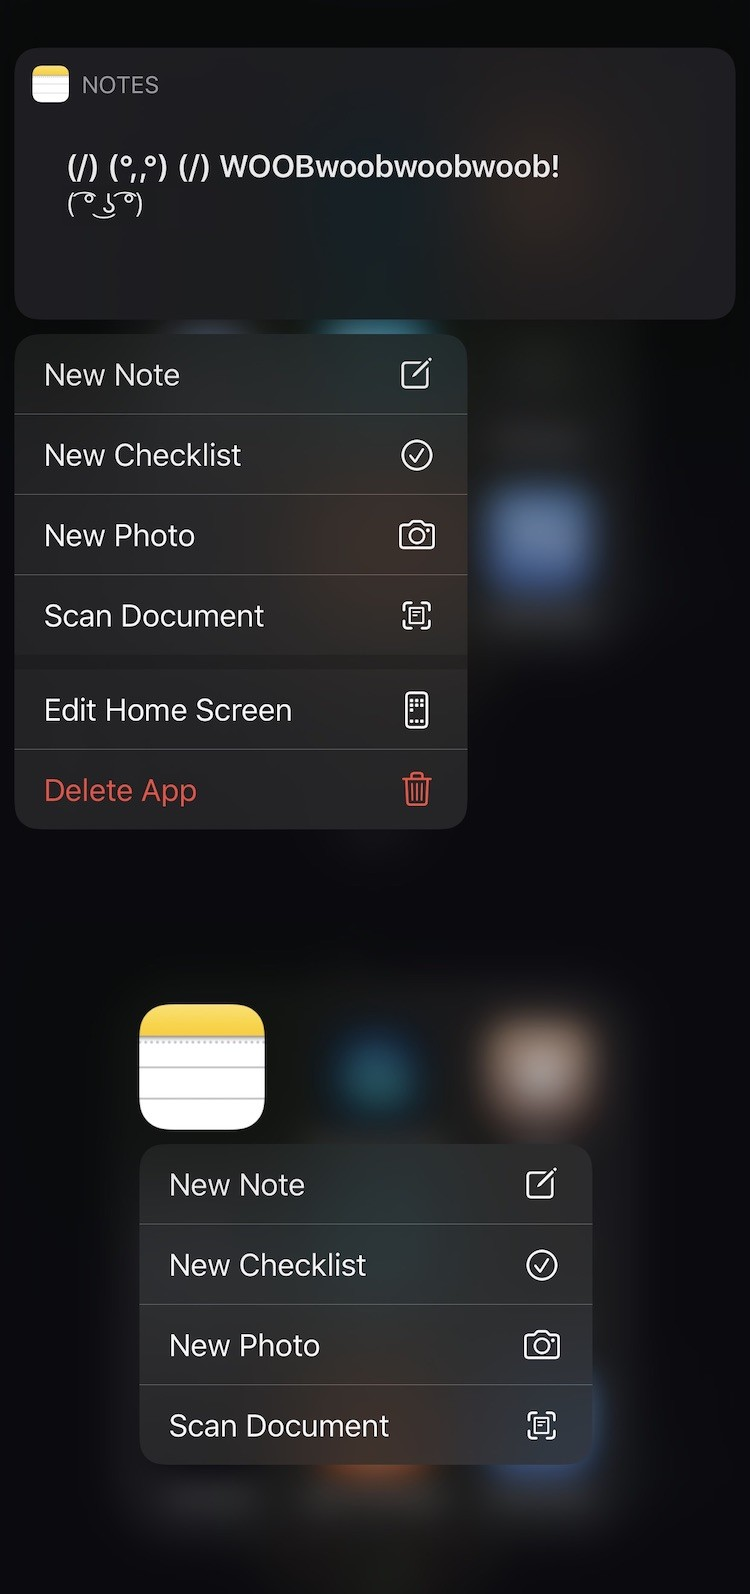
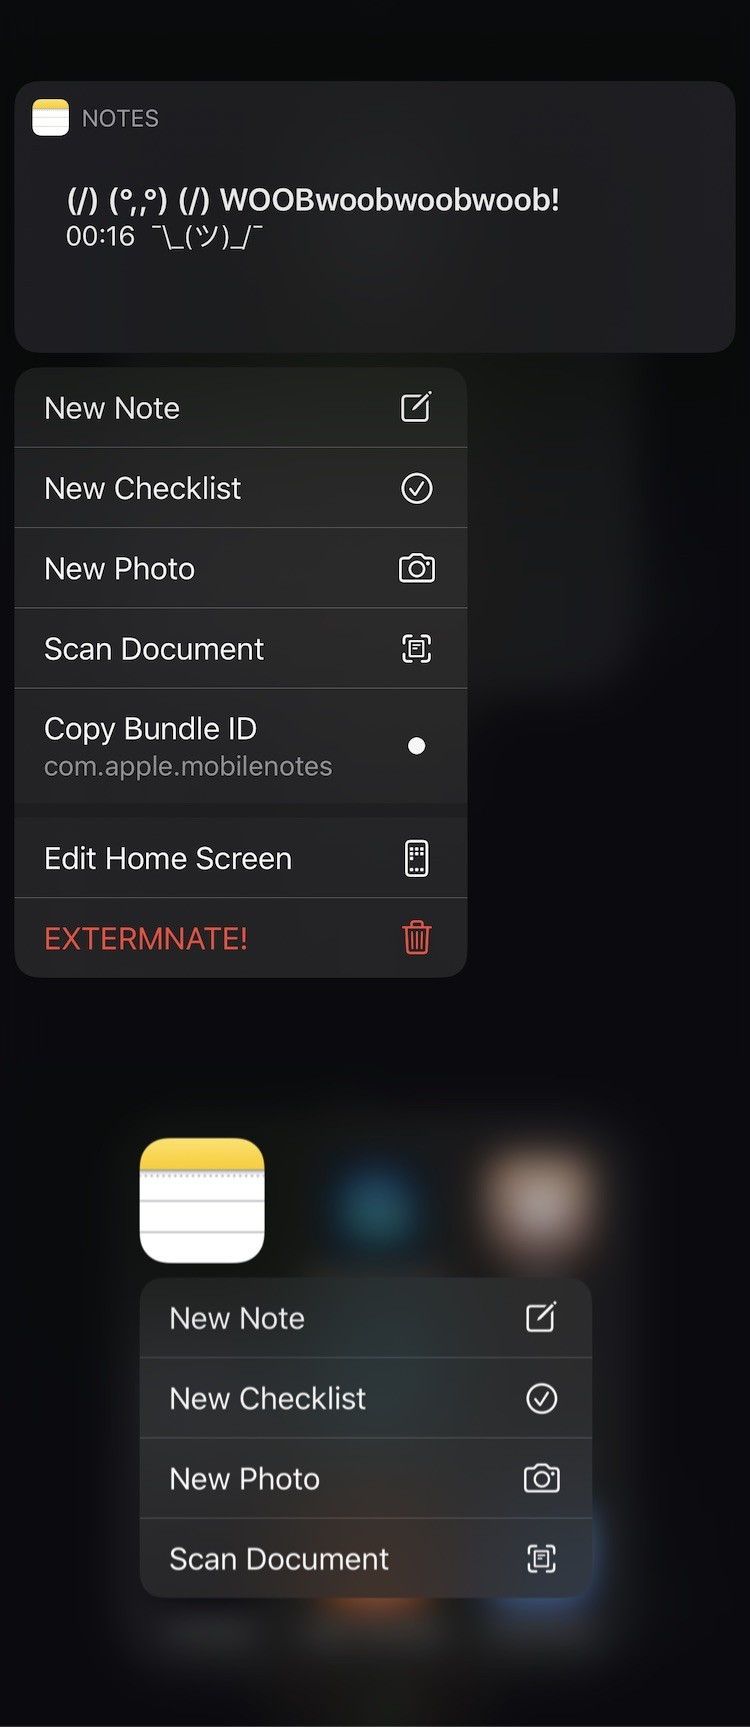
Updated screenshots and descriptions.

diff --git a/BigBoss_description.html b/BigBoss_description.html
@@ -1,0 +1,40 @@
+<div>
+<em>Control Home Screen Quick Actions on your device<br></em>
+<br>
+<strong>Requires iOS greater or equal to 13</strong><br>
+<br>
+<strong>Possibilities:</strong><br><br>
+<em>control UI Style of Home Screen Quick Actions</em><br><br>
+<em>reverse order of Home Screen Quick Actions</em><br><br>
+<em>change titles and add/change subtitles</em><br><br>
+<em>Turn On/Turn Off default Home Screen Quick Actions:</em><br>
+- Edit Home Screen<br>
+- Rename<br>
+- Share App<br>
+- Delete App<br>
+- Pause Download<br>
+- Cancel Download<br>
+- Prioritize Download<br>
+- Hide App (This option is only for devices with floating dock enabled, on stock devices it is enabled only on iPads)<br>
+- App specific Quick Actions<br>
+- Widget<br><br>
+<em>Turn On/Turn Off additional Home Screen Quick Actions:</em><br>
+- Copy Bundle ID<br>
+<br>
+Configure options from Settings.<br>
+<br>
+This tweak is open sourced <a href="https://github.com/tomaszpoliszuk/HomeScreenQuickActions" target="_new">on Github</a><br>
+<br>
+<div style="text-align:center;">
+<img width="268" src="homescreenquickactions1.jpg">
+</div>
+<div style="text-align:center;">
+<img width="268" src="homescreenquickactions2.jpg">
+</div>
+<div style="text-align:center;">
+<img width="268" src="homescreenquickactions3.jpg">
+</div>
+<div style="text-align:center;">
+<img width="268" src="homescreenquickactions4.jpg">
+</div>
+</div>

diff --git a/README.md b/README.md
@@ -1,4 +1,4 @@
-*Select which Home Screen Quick Actions should be enabled*
+*Control Home Screen Quick Actions on your device*
 
 **Requires iOS greater or equal to 13**
 
@@ -6,10 +6,13 @@
 
 *control UI Style of Home Screen Quick Actions*
 
+*reverse order of Home Screen Quick Actions*
+
+*change titles and add/change subtitles*
+
 *Turn On/Turn Off default Home Screen Quick Actions:*
 - Edit Home Screen
 - Rename
-- Widget
 - Share App
 - Delete App
 - Pause Download
@@ -17,6 +20,7 @@
 - Prioritize Download
 - Hide App (This option is only for devices with floating dock enabled, on stock devices it is enabled only on iPads)
 - App specific Quick Actions
+- Widget
 
 *Turn On/Turn Off additional Home Screen Quick Actions:*
 - Copy Bundle ID
@@ -24,6 +28,6 @@
 Configure options from Settings.
 
 ![settings](screenshots/homescreenquickactions1.jpg)
-![notes](screenshots/homescreenquickactions2.jpg)
+![dock](screenshots/homescreenquickactions2.jpg)
 ![folder](screenshots/homescreenquickactions3.jpg)
-![dock](screenshots/homescreenquickactions4.jpg)
+![notes](screenshots/homescreenquickactions4.jpg)
